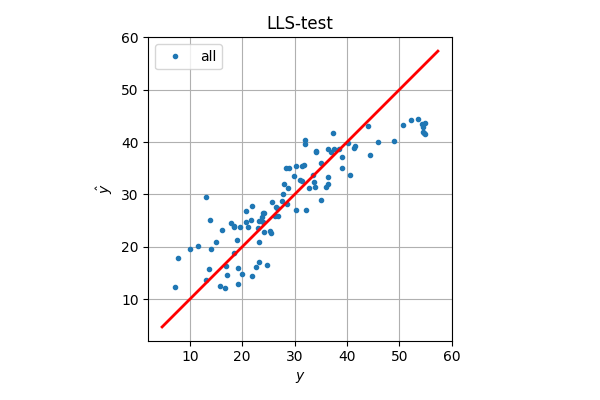
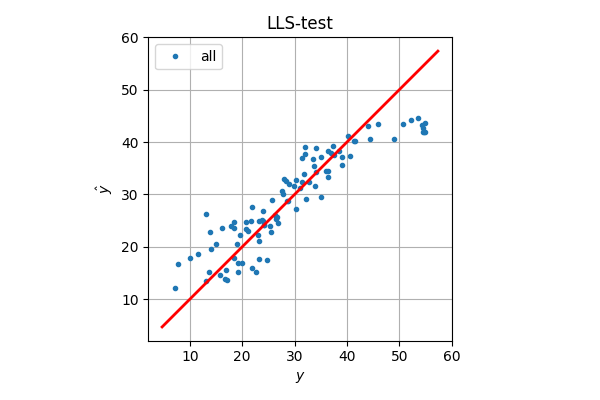
localRegression dataframe to array

Changed region(s): [[0.27, 0.3, 0.72, 0.75]]

diff --git a/LAB01/sub/regression.py b/LAB01/sub/regression.py
@@ -135,8 +135,8 @@ class regression:
     def localRegression(self, N):
         dist = []
         neighbors_index = []
-        neighbors_Xtr = pd.DataFrame()
-        neighbors_Xte = pd.DataFrame()
+        neighbors_Xtr = []
+        neighbors_Xte = []
         neighbors_ytr = []
         neighbors_yte = []
         
@@ -145,16 +145,16 @@ class regression:
 
         neighbors_index = np.argsort(dist)
         for i in range(N):
-            newrow_Xtr = self.X_tr.iloc[neighbors_index[i]]
-            newrow_Xte = self.X_te.iloc[neighbors_index[i]]
-            newrow_ytr = self.y_tr.iloc[neighbors_index[i]]
-            newrow_yte = self.y_te.iloc[neighbors_index[i]]
+            newrow_Xtr = self.X_tr.values[neighbors_index[i]]
+            newrow_Xte = self.X_te.values[neighbors_index[i]]
+            newrow_ytr = self.y_tr.values[neighbors_index[i]]
+            newrow_yte = self.y_te.values[neighbors_index[i]]
             neighbors_ytr.append(newrow_ytr)
             neighbors_yte.append(newrow_yte)
-            neighbors_Xtr=pd.concat([neighbors_Xtr, newrow_Xtr], axis=1, ignore_index=True) #Vector containing the classes of the k-nearest elements
-            neighbors_Xte=pd.concat([neighbors_Xte, newrow_Xte], axis=1, ignore_index=True)
+            neighbors_Xtr.append(newrow_Xtr) #Vector containing the classes of the k-nearest elements
+            neighbors_Xte.append(newrow_Xte)
 
-        self.X_tr = neighbors_Xtr.transpose()
-        self.X_te = neighbors_Xte.transpose()
+        self.X_tr = pd.DataFrame(neighbors_Xtr)
+        self.X_te = pd.DataFrame(neighbors_Xte)
         self.y_tr = pd.DataFrame(neighbors_ytr)
         self.y_te = pd.DataFrame(neighbors_yte)
